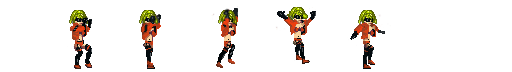
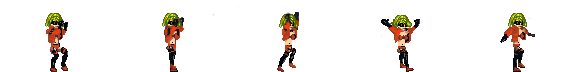
Refatoração

diff --git a/TrabalhoCelio/Player.h b/TrabalhoCelio/Player.h
@@ -9,6 +9,8 @@ class Player
 		
 		ALLEGRO_BITMAP* imagemPersonagem = NULL;
 
+		const float fpsImagem = 2.f;
+
 		int frame_x = 0;
 		int frame_y = 0;
 
@@ -20,11 +22,13 @@ class Player
 		float posicao_x_tela = 0.f;
 		float posicao_y_tela = 0.f;
 
+		int flags = 0;
+
 		Moveset movesetPlayer;
 
 		Player() {};
 
-		Player(int fx, int fy, int lp, int ap, float px, float py, Moveset ms) {
+		Player(int fx, int fy, int lp, int ap, float px, float py, Moveset ms, int flags) {
 			this->frame_x = fx;
 			this->frame_y = fy;
 			this->larguraPlayer = lp;
@@ -32,6 +36,7 @@ class Player
 			this->posicao_x_tela = px;
 			this->posicao_y_tela = py;
 			this->movesetPlayer = ms;
+			this->flags = flags;
 		}
 
 		void carregarImagemPersonagem(ALLEGRO_BITMAP* imagemPersonagem);
@@ -48,12 +53,12 @@ void Player::carregarImagemPersonagem(ALLEGRO_BITMAP* imagemPersonagem) {
 void Player::movimentacaoEsquerda() {
 	
 	if (this->movesetPlayer.movendoEsquerda) {
-		this->imagemPersonagem = al_load_bitmap("AndandoT.png");
+		this->imagemPersonagem = al_load_bitmap("Andando.png");
 		this->posicao_x_tela -= 3;
 		this->delayTrocaDeFrame++;
 		if (this->delayTrocaDeFrame == 17) {
-			this->frame_x += 96;
-			if (this->frame_x == 384) {
+			this->frame_x += 115;
+			if (this->frame_x == 230) {
 				this->frame_x = 0;
 			}
 			this->delayTrocaDeFrame = 0;
@@ -63,12 +68,12 @@ void Player::movimentacaoEsquerda() {
 
 void Player::movimentacaoDireita() {
 	if(this->movesetPlayer.movendoDireita) {
-		this->imagemPersonagem = al_load_bitmap("AndandoF.png");
+		this->imagemPersonagem = al_load_bitmap("Andando.png");
 		this->posicao_x_tela += 3;
 		this->delayTrocaDeFrame++;
 		if (this->delayTrocaDeFrame == 17) {
-			this->frame_x += 96;
-			if (this->frame_x == 384) {
+			this->frame_x += 115;
+			if (this->frame_x == 230) {
 				this->frame_x = 0;
 			}
 			this->delayTrocaDeFrame = 0;
@@ -81,9 +86,16 @@ void Player::puloPersonagem() {
 		for (int i = 0; i < 40; i++) {
 			this->posicao_y_tela -= 2;
 			this->delayTrocaDeFrame++;
-			if (this->delayTrocaDeFrame == 2) {
+			if (this->delayTrocaDeFrame == 1) {
 				al_clear_to_color(al_map_rgb(255, 255, 255));
-				al_draw_bitmap_region(al_load_bitmap("ParadoF.png"), this->frame_x, this->frame_y, this->alturaPlayer, this->larguraPlayer, this->posicao_x_tela, this->posicao_y_tela, 0);
+				al_draw_bitmap_region(al_load_bitmap("Parado.png"), 
+					this->frame_x, 
+					this->frame_y, 
+					this->alturaPlayer, 
+					this->larguraPlayer, 
+					this->posicao_x_tela, 
+					this->posicao_y_tela, 
+					this->flags);
 				al_flip_display();
 				this->delayTrocaDeFrame = 0;
 			}
